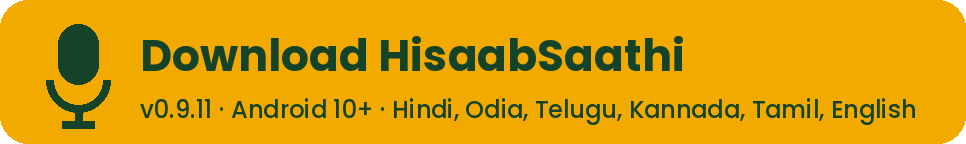
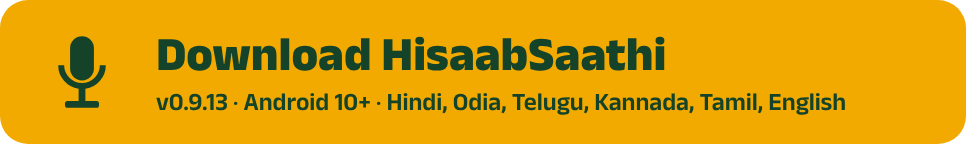
README button: v0.9.13 drawn into the picture, with a template to redraw it
The version is part of the button image, so changing the README's alt text
did not show. docs/brand/source/render-button.js <version> redraws it.

diff --git a/docs/brand/source/download-button.html b/docs/brand/source/download-button.html
@@ -1,0 +1,21 @@
+<!doctype html>
+<!-- The README's download button. Render with: node docs/brand/source/render-button.js 0.9.13 -->
+<meta charset="utf-8">
+<style>
+@font-face{font-family:AnekL;src:url(../../../android/app/src/main/res/font/anek_latin_400.ttf);font-weight:400}
+@font-face{font-family:AnekL;src:url(../../../android/app/src/main/res/font/anek_latin_600.ttf);font-weight:600}
+@font-face{font-family:AnekL;src:url(../../../android/app/src/main/res/font/anek_latin_800.ttf);font-weight:800}
+body{margin:0;background:transparent;font-family:AnekL}
+#button{display:inline-flex;align-items:center;gap:20px;box-sizing:border-box;width:483px;height:72px;padding:0 24px;
+  border-radius:14px;background:#F2A900;color:#14432A}
+#button .t{font-weight:800;font-size:24px;line-height:1.05}
+#button small{display:block;font-weight:600;font-size:12.5px;margin-top:6px;white-space:nowrap}
+</style>
+<div id="button">
+  <svg width="34" height="46" viewBox="0 0 80 92"><path fill="#14432A" d="M40 4a14 14 0 0 1 14 14v24a14 14 0 0 1-28 0V18A14 14 0 0 1 40 4z"/><path fill="#14432A" d="M12 38h7a21 21 0 0 0 42 0h7a28 28 0 0 1-24 27.7V80h-8V65.7A28 28 0 0 1 12 38z"/><rect x="20" y="80" width="40" height="8" rx="3" fill="#14432A"/></svg>
+  <div class="t">Download HisaabSaathi<small id="sub">v0.0.0 · Android 10+ · Hindi, Odia, Telugu, Kannada, Tamil, English</small></div>
+</div>
+<script>
+const v = new URLSearchParams(location.search).get('v');
+if (v) document.getElementById('sub').textContent = `v${v} · Android 10+ · Hindi, Odia, Telugu, Kannada, Tamil, English`;
+</script>

diff --git a/docs/brand/source/render-button.js b/docs/brand/source/render-button.js
@@ -1,0 +1,16 @@
+// Draws docs/brand/new-button.png (the README's download button) for a version:
+//   node docs/brand/source/render-button.js 0.9.13
+// Needs Playwright with Chromium (npm i playwright; npx playwright install chromium).
+const { chromium } = require('playwright');
+const path = require('path');
+(async () => {
+  const version = process.argv[2];
+  if (!version) { console.error('usage: render-button.js <version>'); process.exit(1); }
+  const b = await chromium.launch();
+  const p = await b.newPage({ deviceScaleFactor: 2, viewport: { width: 600, height: 200 } });
+  await p.goto('file://' + path.join(__dirname, 'download-button.html') + '?v=' + encodeURIComponent(version));
+  await p.evaluate(() => document.fonts.ready);
+  await p.locator('#button').screenshot({ path: path.join(__dirname, '..', 'new-button.png'), omitBackground: true });
+  await b.close();
+  console.log('docs/brand/new-button.png: v' + version);
+})();
